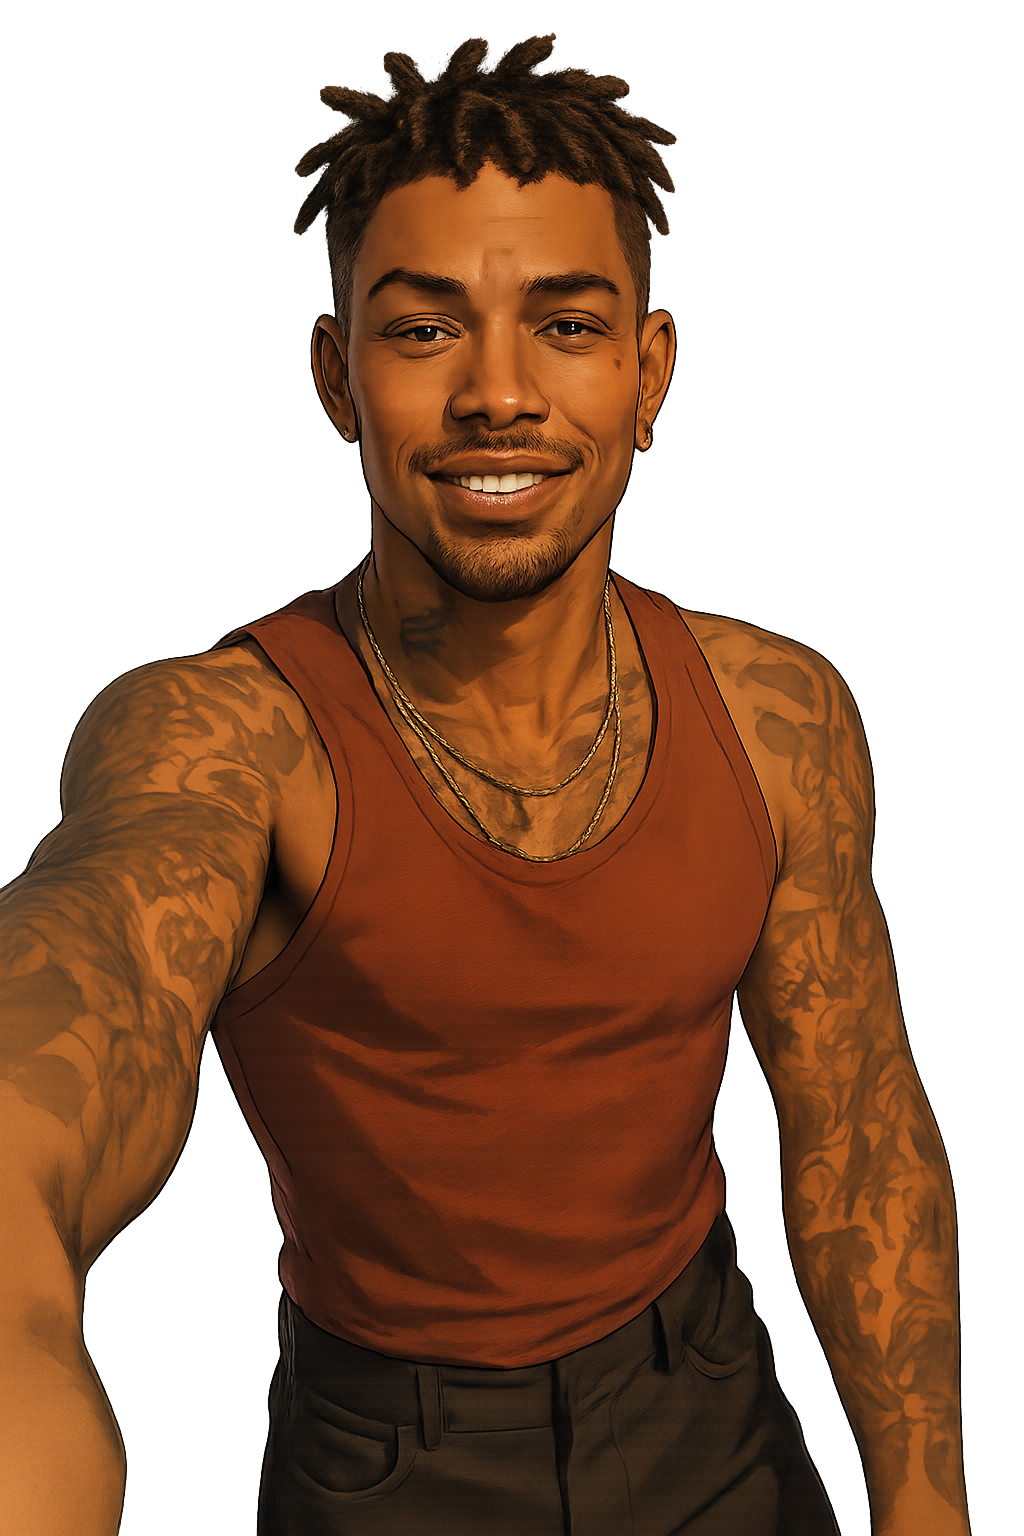
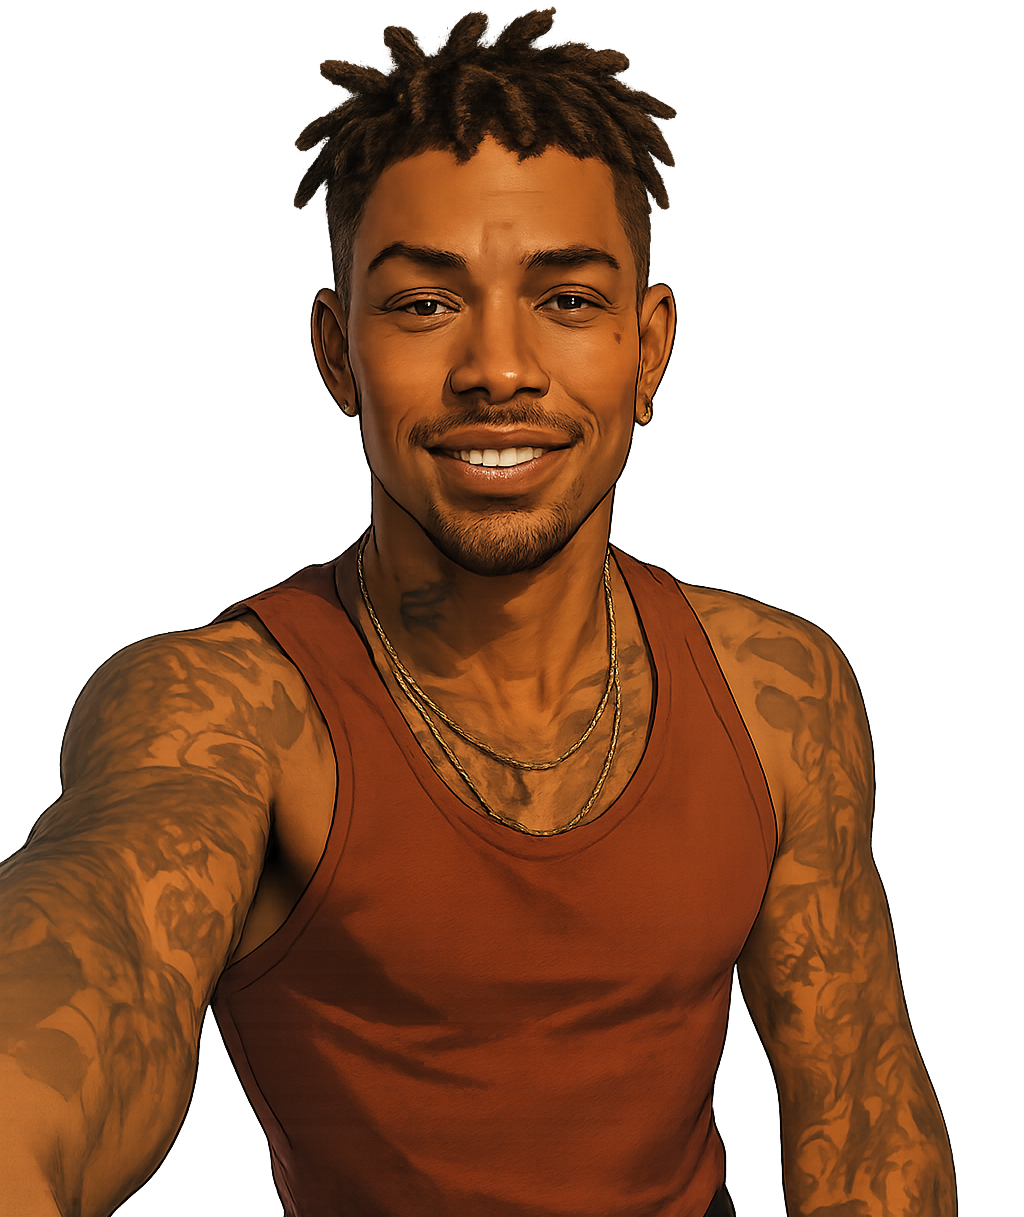
changes

diff --git a/src/Home.jsx b/src/Home.jsx
@@ -106,23 +106,23 @@ const Home = () => {
                 alt=""
               />
               <img
-                className="absolute  scale-80 -bottom-[30%] md:-bottom-[40%] md:scale-90    xl:-bottom-1/2  xl:scale-80 2xl:scale-100  left-1/2 -translate-x-1/2 "
+                className="absolute  -bottom-[0%] lg:-bottom-[20%] xl:-bottom-[30%] xl:scale-90 2xl:-bottom-[50%] 2xl:scale-80 @max-3xl:scale-100  @max-3xl:bottom-0  left-1/2 -translate-x-1/2  "
                 src="../public/9b48f167-3aeb-457f-b8d3-9c20324f9a9e.png"
                 alt=""
               />
             </div>
 
-            <div className="bottomBar  absolute bottom-10  w-full flex items-center px-10 overflow-hidden   ">
+            <div className="bottomBar  absolute bottom-10  w-full flex items-center px-10  ">
               <div className="flex items-center relative w-full h-full">
-                <div className="flex items-center gap-3 py-3 px-3 rounded-full border border-white">
-                  <FaArrowDown size={40} className="text-white" />
+                <div className="flex items-center gap-3 py-2 px-1 rounded-full border border-white">
+                  <FaArrowDown className="text-white text-sm sm:text-base md:text-xl lg:text-2xl" />
 
-                  <h3 className="capitalize text-2xl text-white font-serif ">
+                  <h3 className="capitalize  text-white font-serif text-sm sm:text-base md:text-xl lg:text-2xl ">
                     Scroll Down
                   </h3>
                 </div>
 
-                <div className=" w-[300px] h-[300px] absolute -translate-x-1/2 left-1/2 top-0 z-50">
+                <div className=" w-[200px] md:w-[300px] h-[200px]  absolute md:-translate-x-1/2 left-1/2 top-0 z-50">
                   <img
                     src="../public/ps5.png"
                     alt=""
@@ -131,7 +131,7 @@ const Home = () => {
                 </div>
               </div>
             </div>
-            <div className="h-[100px] absolute bottom-0 w-full mask-t-from-4 py-2">a</div>
+            <div className="h-[100px] absolute bottom-0 w-full mask-t-from-4 z-[999999999999] py-2 bg-black"></div>
           </div>
         </div>
       )}
